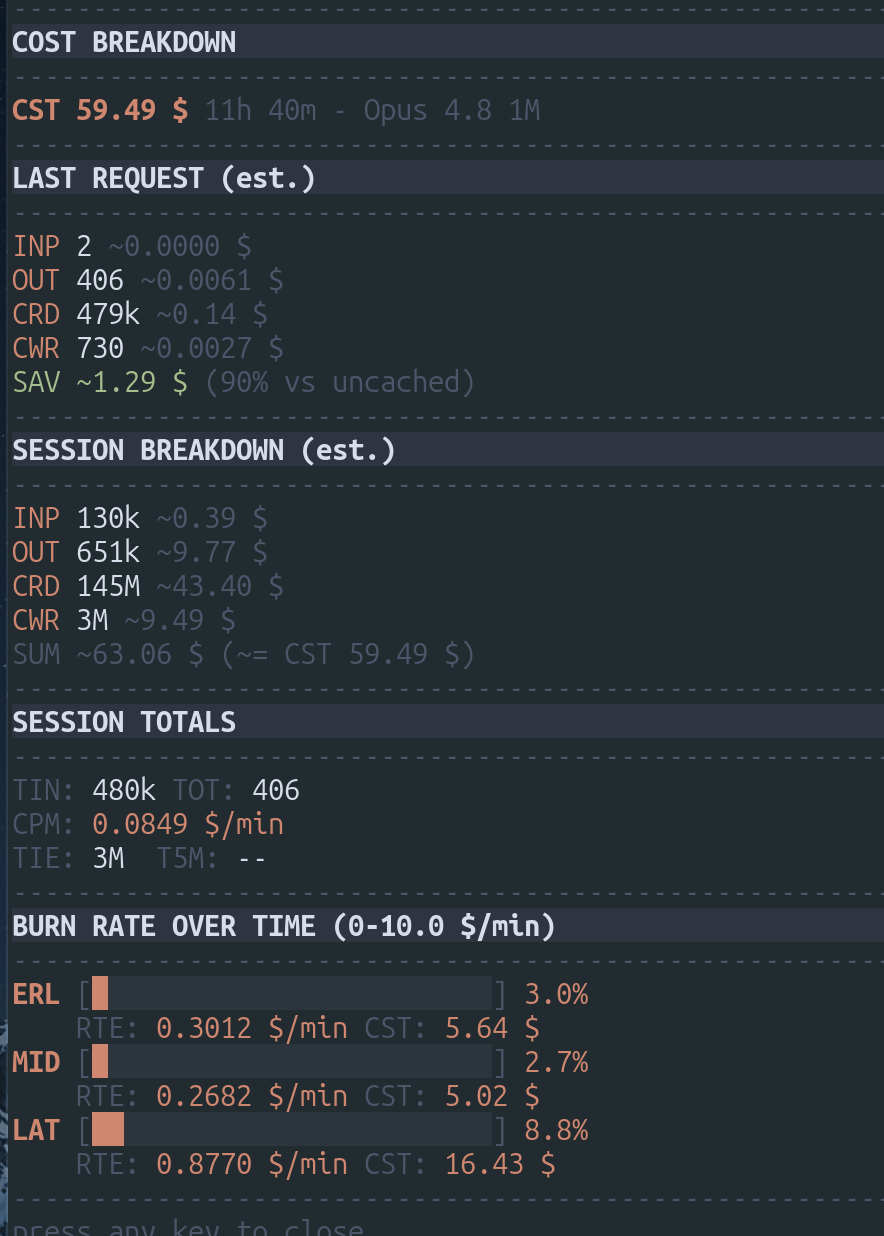
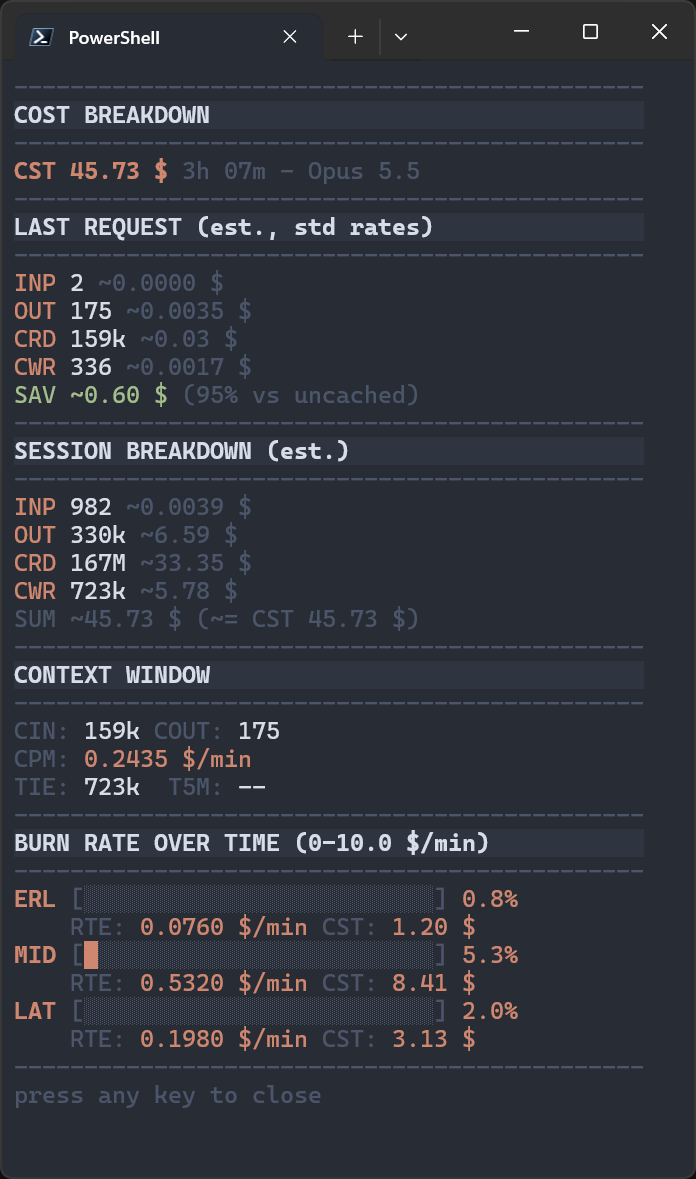
docs: refresh screenshots for v1.18 (#119)
* docs: refresh screenshots for v1.18

Dashboard, picker, menu, legend, token stats, agents, cost, Pulse and
update screenshots now show v1.18.1, including a desktop app session and
the two-section picker. Alt texts and captions match the new images.

* docs: refresh statusline screenshot for v1.18

---------

diff --git a/README.md b/README.md
@@ -27,12 +27,12 @@ The Bandit badge tracks report publication; findings are reviewed in
 | **IPC** | Atomic JSON snapshots + JSONL history in `$TMPDIR/claude-aio-monitor/` — no sockets, no databases |
 
 <p align="center">
-  <a href="screenshots/cc-aio-mon-dashboard.png"><img src="screenshots/cc-aio-mon-dashboard.png" alt="CC AIO MON — fullscreen TUI dashboard showing context window, API ratio, cache hit rate, rate limits, burn rate, cost, and cross-session totals with Nord color scheme"></a><br>
-  <sub><b>Fullscreen dashboard</b> — context window, API ratio, cache hit rate, rate limits, burn rate and cross-session cost at a glance.</sub>
+  <a href="screenshots/cc-aio-mon-dashboard.png"><img src="screenshots/cc-aio-mon-dashboard.png" alt="CC AIO MON — fullscreen TUI dashboard for a Claude desktop app session: API ratio, cache hit rate, context window, burn rate and estimated cost, with rate limits shown as n/a"></a><br>
+  <sub><b>Fullscreen dashboard</b> — context window, API ratio, cache hit rate, rate limits, burn rate and cross-session cost at a glance. Shown here for a desktop app session, where values are estimated from the transcript.</sub>
 </p>
 
 <p align="center">
-  <a href="screenshots/cc-aio-mon-statusline.png"><img src="screenshots/cc-aio-mon-statusline.png" alt="CC AIO MON — single-line ANSI status bar showing Model, CTX, 5HL, 7DL, CST, BRN segments with reset countdown"></a><br>
+  <a href="screenshots/cc-aio-mon-statusline.png"><img src="screenshots/cc-aio-mon-statusline.png" alt="CC AIO MON — statusline under the Claude Code prompt showing Model, CTX, 5HL and 7DL with reset countdowns, and CST"></a><br>
   <sub><b>Statusline</b> — a single-line status bar (model, context, rate limits, cost, burn) for your Claude Code prompt.</sub>
 </p>
 
@@ -53,7 +53,7 @@ Other monitors scrape log files or estimate costs from token counts. For Claude 
 </p>
 
 <p align="center">
-  <a href="screenshots/cc-aio-mon-legend.png"><img src="screenshots/cc-aio-mon-legend.png" alt="CC AIO MON — legend overlay showing all metric codes, hotkeys, token stats, cost breakdown, and update sections"></a><br>
+  <a href="screenshots/cc-aio-mon-legend.png"><img src="screenshots/cc-aio-mon-legend.png" alt="CC AIO MON — legend overlay with the hotkeys section and the start of the dashboard metric glossary, with a scroll position hint"></a><br>
   <sub><b>Legend</b> (<code>l</code>) — hotkeys first, then the full glossary of every metric code (scroll for more).</sub>
 </p>
 
@@ -81,7 +81,7 @@ Optional first step: run `check-requirements.ps1` (Windows) or `check-requiremen
 - **Token usage stats** — press `t` for a per-model token breakdown (In / Out / Calls, plus Cache Read and Cache Write rows when non-zero), session count, active days, streaks, longest session, and most active day. Reads `~/.claude/projects/` transcripts. Filterable by All Time / Last 7 Days / Last 30 Days. Initial loading and period changes run in the background so the modal remains responsive. Model bars and daily peak (PEAK) count all token types: input + output + cache_read + cache_write.
 - **Update manager** — press `u` to check for updates. Shows current vs remote version, new commits, changelog preview, and safety warnings. Press `a` to apply.
 <p align="center">
-  <a href="screenshots/cc-aio-mon-stats.png"><img src="screenshots/cc-aio-mon-stats.png" alt="CC AIO MON — token stats modal with per-model breakdown using 3-char codes, includes cache tokens in bar"></a><br>
+  <a href="screenshots/cc-aio-mon-stats.png"><img src="screenshots/cc-aio-mon-stats.png" alt="CC AIO MON — token stats modal, All Time period: sessions, active days, streak, longest session, peak day and a per-model breakdown with cache tokens"></a><br>
   <sub><b>Token stats</b> (<code>t</code>) — per-model token breakdown, sessions, streaks and peak-day.</sub>
 </p>
 
@@ -110,7 +110,7 @@ Optional first step: run `check-requirements.ps1` (Windows) or `check-requiremen
 - **Menu modal** — press `m` to open the navigation hub. Quick access to all features: refresh, session switch, legend, token stats, agents fan-out, cost breakdown, Anthropic Pulse, update manager.
 - **Agents fan-out** — press `a` for a live view of the subagents / Workflow agents spawned by the watched session: active/total count, summed token usage, and a per-agent list (id, tokens, last tool) sorted by recency, refreshed while the modal is open. Press `f` to toggle an **active-only** filter that hides idle agents (a non-destructive "clear board" — nothing on disk is touched). Reads each agent's transcript under `~/.claude/projects/<proj>/<session>/subagents/agent-*.jsonl` (lazy, TTL-cached, containment-checked). When a Task or Workflow fans out across dozens of agents, you can see it happen in real time.
 <p align="center">
-  <a href="screenshots/cc-aio-mon-agents.png"><img src="screenshots/cc-aio-mon-agents.png" alt="CC AIO MON — agents fan-out modal showing active/total agent count, summed token usage, and a per-agent list with compact tool codes"></a><br>
+  <a href="screenshots/cc-aio-mon-agents.png"><img src="screenshots/cc-aio-mon-agents.png" alt="CC AIO MON — agents fan-out modal showing 0 active of 8 agents, summed token usage, and a per-agent list with token counts and last tool"></a><br>
   <sub><b>Agents fan-out</b> (<code>a</code>) — live subagent / Workflow view: active/total, summed tokens, per-agent tokens and last tool.</sub>
 </p>
 - **Cost breakdown** — press `c` for two scopes: **LAST REQUEST (est.)** shows last-message token costs from `current_usage`; **SESSION BREAKDOWN (est.)** aggregates the entire session from transcript JSONL with per-record model pricing and reconciliation against server-reported CST (warn tag if delta >15%). CST displays `0.00 $` for a reported zero and `n/a` for missing or invalid data. The detail explains missing usage or an unavailable transcript estimate, and shows the estimate total even without a reported CST. Also shows cache savings percentage and burn rate over time bars. When non-zero, **WSR / WFR** rows surface server-side tool calls (`web_search_requests` / `web_fetch_requests` from `usage.server_tool_use`) and **TIE / T5M** rows split cache-creation tokens between the 1-hour and 5-minute ephemeral TTLs.
@@ -125,8 +125,8 @@ Optional first step: run `check-requirements.ps1` (Windows) or `check-requiremen
 The dashboard distinguishes **active** and **inactive** sessions. An active session receives fresh JSON snapshots from `statusline.py` on every Claude Code event. When no update arrives for more than 30 minutes, `monitor.py` marks the session as stale: the header switches to `Session Inactive`, the time-since-last-update is shown in parentheses (e.g. `(617m)`), and every metric is rendered in the dimmed variant of its color. Last known values are preserved — nothing is zeroed out — so you can still see where the session left off (context used, cost accumulated, rate-limit buckets, burn rate at time of freeze).
 
 <p align="center">
-  <a href="screenshots/cc-aio-mon-picker.png"><img src="screenshots/cc-aio-mon-picker.png" alt="CC AIO MON — session picker from v1.13.0: session labels, model codes and live/stale tags"></a><br>
-  <sub><b>Session picker</b> (<code>s</code>) — pick among Claude Code sessions; live / stale tags, model codes. Screenshot from v1.13.0; the current picker has CLI and DESKTOP APP sections and a cursor (see <a href="#session-picker">Session Picker</a>).</sub>
+  <a href="screenshots/cc-aio-mon-picker.png"><img src="screenshots/cc-aio-mon-picker.png" alt="CC AIO MON — session picker with CLI SESSIONS and DESKTOP APP SESSIONS sections, a cursor, model codes, desk tags and live tags"></a><br>
+  <sub><b>Session picker</b> (<code>s</code>) — CLI and desktop app sessions in two sections; move the cursor and press <code>Enter</code> (see <a href="#session-picker">Session Picker</a>).</sub>
 </p>
 
 Press `r` to force a refresh (resets the stale timer if new data has arrived), or `s` to switch to a different session from the picker. If the session has truly ended and you want it out of the picker, delete its JSON/JSONL pair from `$TMPDIR/claude-aio-monitor/`.
